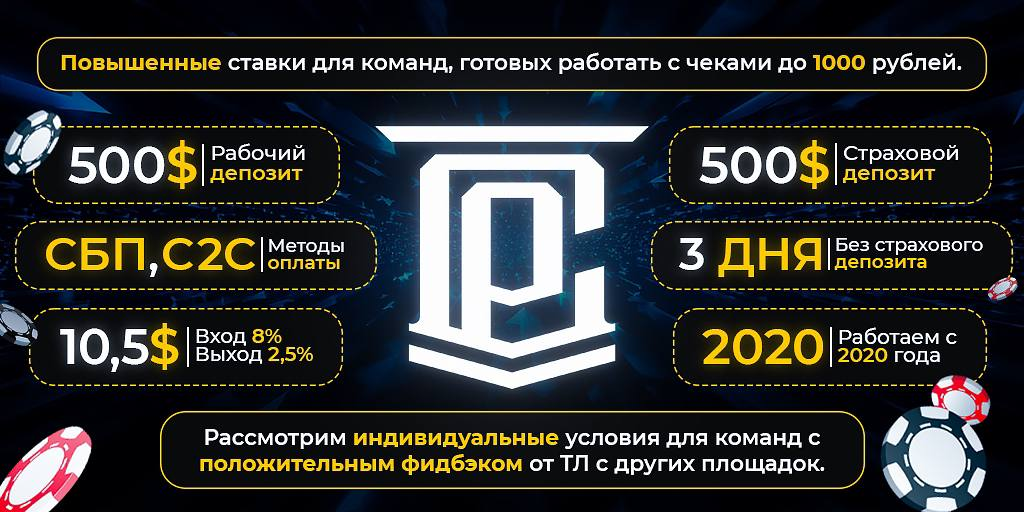
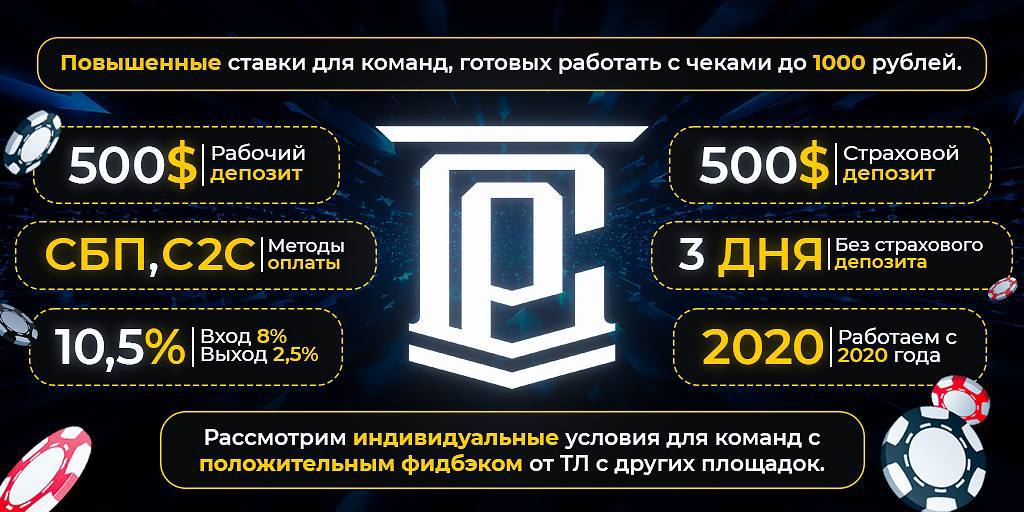
Обновлены caption и баннер, поменян порядок кнопок

Changed region(s): [[0.0625, 0.625, 0.3125, 0.7188]]

diff --git a/bot.py b/bot.py
@@ -26,16 +26,36 @@ back_button = types.InlineKeyboardMarkup().add(
 async def start(message: types.Message):
     keyboard = types.InlineKeyboardMarkup(row_width=1).add(
         types.InlineKeyboardButton("🤝 Стать партнёром", callback_data="connect"),
-        types.InlineKeyboardButton("📩 Связаться с менеджером", url=f"tg://user?id={MANAGER_ID}"),
-        types.InlineKeyboardButton("👨💼 Я тимлид 🤗", callback_data="teamlead")
+        types.InlineKeyboardButton("👨💼 Я тимлид 🤗", callback_data="teamlead"),
+        types.InlineKeyboardButton("📩 Связаться с менеджером", url=f"tg://user?id={MANAGER_ID}")
     )
 
     banner = types.InputFile("banner.jpg")
     caption = (
-        "<b>CapitalPay</b> — платёжная платформа для HighRisk\n\n"
-        "📊 Учёт, аналитика, выплаты\n"
-        "🚀 Без депозита — 3 дня теста\n\n"
-        "Нажмите кнопку ниже 👇🏼"
+        "CapitalPay
+
+"
+        "💼 Сделки в HighRisk
+"
+        "📊 Учёт, выплаты, аналитика
+"
+        "📚 Личный куратор
+"
+        "💰 Условия для опытных команд
+
+"
+        "⚙ Депозит — от $500
+"
+        "📉 Вход — 8%, выход — 2,5%
+"
+        "🔄 Ставка в круг — 10,5%
+
+"
+        "🚀 3 дня без депозита
+"
+        "📆 На рынке с 2020
+"
+        "📩 @lexcapitalpay"
     )
 
     await bot.send_photo(chat_id=message.chat.id, photo=banner, caption=caption, parse_mode='HTML', reply_markup=keyboard)
